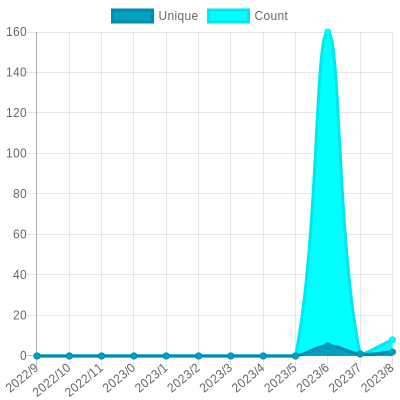
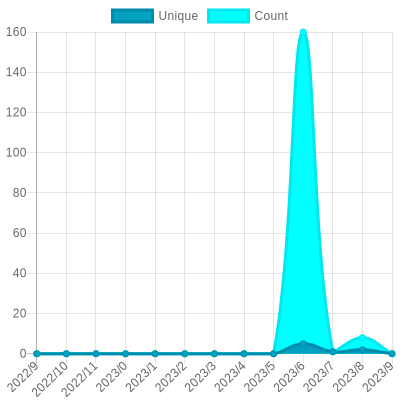
Update views

diff --git a/README.md b/README.md
@@ -26,7 +26,7 @@ The project created and maintained by [gayanvoice](https://github.com/gayanvoice
 			</a>
 		</td>
 		<td>
-			2022/9/29 1:06 AM UTC
+			2022/9/30 1:18 AM UTC
 		</td>
 		<td>
 			8
@@ -37,7 +37,7 @@ The project created and maintained by [gayanvoice](https://github.com/gayanvoice
 	</tr>
 </table>
 
-<small><i>Last updated on 2022/10/1 6:12 PM UTC</i></small>
+<small><i>Last updated on 2022/10/2 1:05 AM UTC</i></small>
 
 ## ✂Copy and 📋 Paste
 ### Total Views Badge

diff --git a/readme/509608177/year.md b/readme/509608177/year.md
@@ -20,6 +20,17 @@
 	</tr>
 	<tr>
 		<td>
+			<code>2022/10/1</code>
+		</td>
+		<td>
+			<code>0</code>
+		</td>
+		<td>
+			<code>0</code>
+		</td>
+	</tr>
+	<tr>
+		<td>
 			<code>2022/9/1</code>
 		</td>
 		<td>
@@ -153,7 +164,7 @@
 </table>
 
 </details>
-<small><i>Last updated on 2022/10/1 6:12 PM UTC</i></small>
+<small><i>Last updated on 2022/10/2 1:05 AM UTC</i></small>
 
 ## ✂Copy and 📋 Paste
 ### SVG Badge
